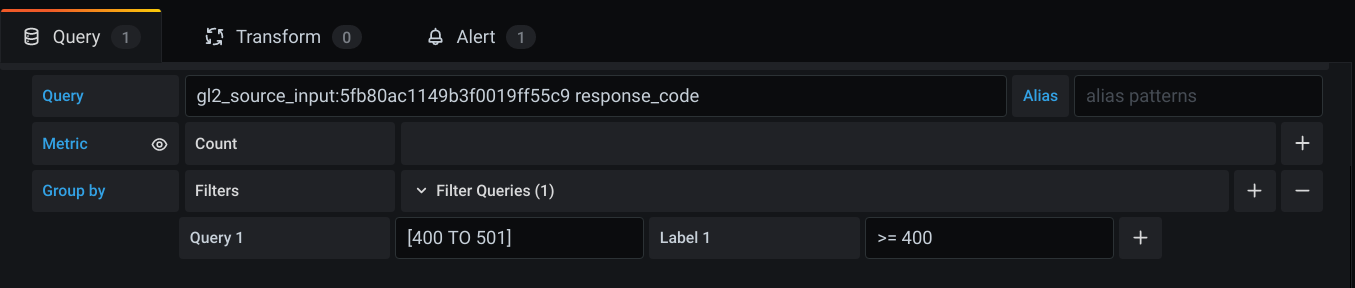
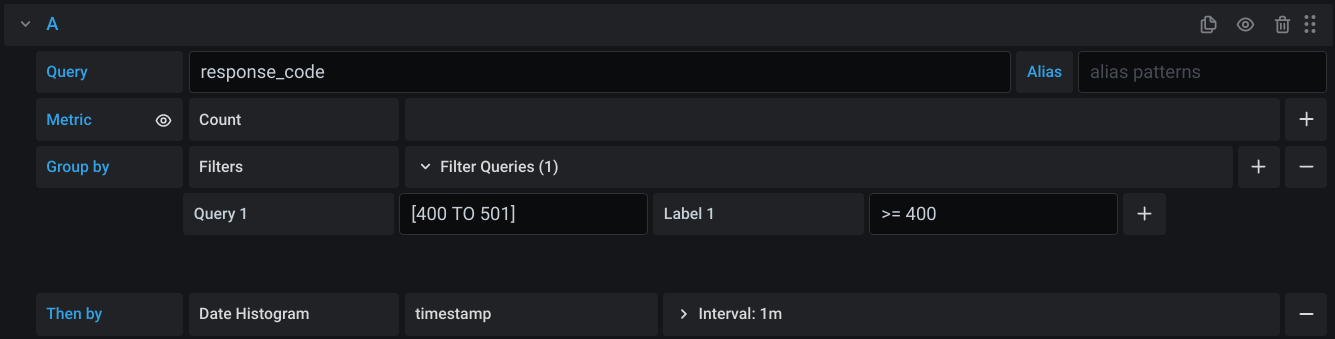
point 3 end

diff --git a/ml-api-public/p2_mlapi.md b/ml-api-public/p2_mlapi.md
@@ -134,6 +134,17 @@ actividad donde se pueda ver en tiempo real las siguientes estadísticas.
 - *alerta de errores* al recibir más de 10 request con codigo de error (>=400)
   en un minuto
   
+  Agregando el siguiente comando para imprimir los codigos de respuesta
+  
+  ```yml
+  api:
+    image: flask_api
+    container_name: ml_api
+    build:
+      context: ./api
+    command: gunicorn --workers=8 --bind 0.0.0.0:5000 --access-logformat "{\"response_code\":%(s)s}"  --log-level=debug --access-logfile - app:app
+  ```
+  
   Creacion de Query
 
    <img 
